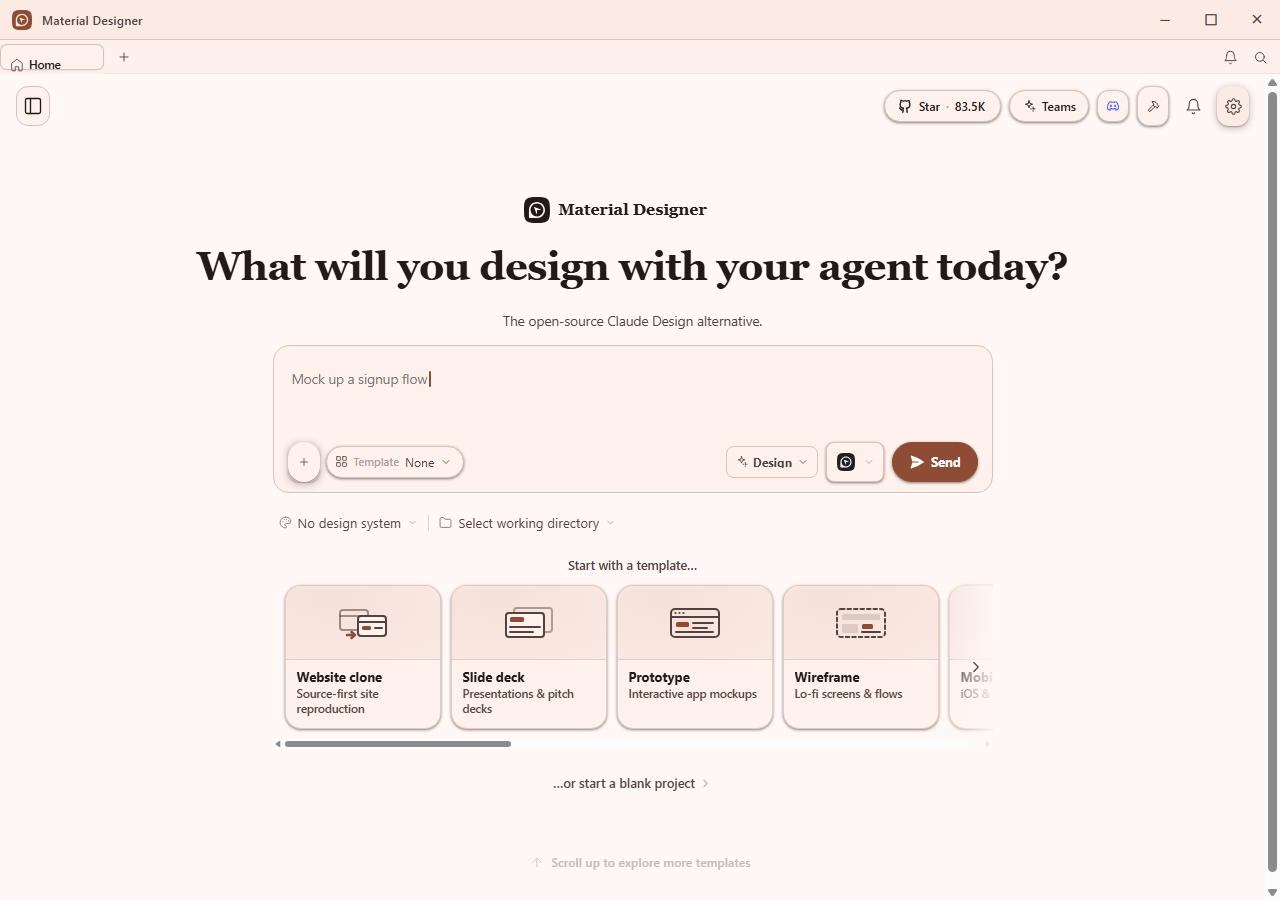
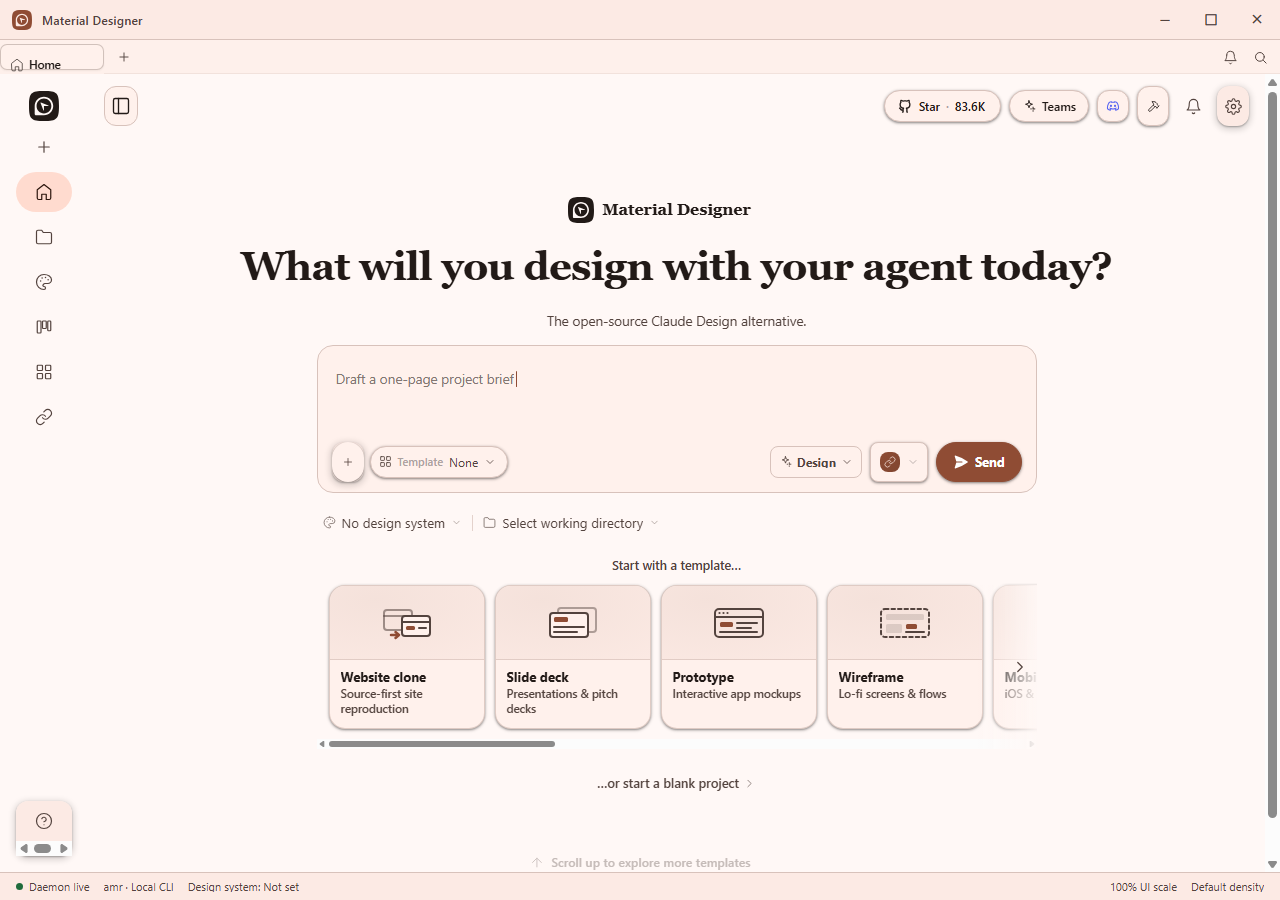
docs: publish the capture that answers the question, and the one that fails
The README's screenshot is now from 90e52d3, and the difference is the point:
there is a navigation rail down the left with the active-destination pill on
Home, and a 28px status bar along the bottom reading daemon state, model,
design system, scale and density. Neither was on the previous image, because
until that commit the rail rendered into a zero-width track.

A second capture is published beside it, deliberately, because it is showing a
defect: bilingual mode at a 900px window clips the status bar's density
readout off the right edge and truncates the Design control to an ellipsis.
Bilingual produces the longest strings in the product, so it is where clipping
appears first — that is why the new capture set covers it, and this is the
first thing it caught, on its first run. Publishing the failing image rather
than quietly retaking it is the whole reason the set is worth having.

The warning above the images is rewritten rather than removed. Two of the
mockup's three pieces of structural furniture are now on screen; the header
search bar is not, and neither is the home screen's own content, which is
still upstream's layout wearing Material Design 3 colours. That is Wave 2 and
unstarted, and saying so is cheaper than being corrected again.

廣東話:新張截圖終於見到左邊條 rail 同底部條狀態列 —— 之前嗰張冇,因為條 rail
render 咗落一個 0 闊嘅格入面。旁邊仲貼多張「衰嘢相」:雙語 + 900px 窄窗,右下
角個密度讀數俾切走咗一橛。呢個正正係新影相機制第一次跑就捉到嘅嘢 —— 影到衰嘢
就照登,唔係偷偷再影過,否則影嚟做乜。

diff --git a/README.md b/README.md
@@ -13,9 +13,20 @@ A local-first design workspace, rebuilt on Material Design 3.
 ![Material Designer running on Windows — the Material Design 3 home screen, showing the custom title bar, the prompt surface and the template rail](assets/screenshots/home-windows.png)
 
 <sub>Not a mockup. This is the packaged application, captured by the smoke test that
-installs the built installer, launches it and uninstalls it — from the run that
-published <code>v0.16.1-r38.1</code>, built from commit <code>4526b6d</code>. The
-capture path is the project's own, and the image is committed unedited.</sub>
+installs the built installer, launches it and uninstalls it — built from commit
+<code>90e52d3</code>. The capture path is the project's own and the image is committed
+unedited. The navigation rail on the left and the 28px status bar along the bottom are
+new: until <code>90e52d3</code> the rail was rendered into a zero-width track, so a
+fresh install showed no rail at all.</sub>
+
+![The same screen in bilingual mode at a 900px window — Chinese and English paired on every label, with the status bar's density readout running off the right edge](assets/screenshots/home-bilingual-narrow.png)
+
+<sub>The same build in bilingual mode at the narrowest supported window, and the reason
+that capture exists: <b>it is showing a real defect.</b> The status bar's density segment
+runs off the right edge and the Design control truncates to an ellipsis. Bilingual mode
+produces the longest strings in the product, so it is where clipping appears first —
+which is exactly why the capture set covers it, and why this image is published rather
+than quietly retaken.</sub>
 
 > [!NOTE]
 > **The application ships, and what it ships is now most of the way through the
@@ -128,18 +139,17 @@ inherited from upstream's documentation unless they say otherwise. The Material 
 redesign is **in progress, and the screenshot above is the honest measure of how far**.
 
 > [!WARNING]
-> **Look at that capture against [the mockup](mockups/) before believing any claim about
-> the redesign.** The colour layer has landed — every token resolves to a Material
-> Design 3 role — but the *anatomy* has not. The mockup specifies a persistent left
-> navigation rail, a header search bar with its regex affordance, and a 28px status bar
-> carrying daemon state, model, design system, scale and density. **None of the three is
-> on that screen.** The rail component exists and is collapsed to a zero-width track by
-> default, so a fresh install shows no rail at all.
+> **Compare those captures to [the mockup](mockups/) before believing any claim about
+> the redesign.** Two of the three pieces of structural furniture the mockup specifies
+> are now on screen — the persistent navigation rail and the status bar — and the third,
+> a header search bar with its regex affordance, is not. Neither is the home screen's
+> own content: the prompt surface and template rail are still upstream's layout wearing
+> Material Design 3 colours, which is roadmap Wave 2 and unstarted.
 >
-> A reader comparing the two would conclude the screen is still upstream's with new
-> colours, and for the parts that matter they would be right. Documents in this
-> repository have said "the anatomy pass landed"; that was true of the code and false of
-> the screen, which is the distinction this project keeps having to relearn.
+> This warning exists because a reader looked at an earlier capture, compared it to the
+> mockup, and said the application still looked like the one it was forked from — while
+> documents here said "the anatomy pass landed". That was true of the code and false of
+> the screen. **Judge this by the images above, not by the sentence next to them.**
 
 Two distinctions that keep proving load-bearing, both learned the same way:
 

diff --git a/ROADMAP.md b/ROADMAP.md
@@ -571,18 +571,21 @@ meeting it.
       *installed identity* rather than as text in files, which is what this item
       was waiting for. The one part still unproved is the window title itself — no
       title has been read off a window, because nothing inspects the window.
-- [ ] **The navigation rail is mounted and invisible.** `EntryShell` renders
-      `EntryNavRail`, and `entry-layout.css` collapses its grid track to **`0`**
-      — so "collapsed" means the rail is gone, not narrow — while
-      `readStoredRailOpen()` defaults to `false`. A fresh install therefore
-      shows **no rail at all**, which is what the published capture shows.
-      Wave 1 below specifies 88px collapsed to 260px expanded; both current
-      states (0 and 56px) are wrong. **A Material Design 3 navigation rail is
-      persistent by definition** — this single default is the largest reason
-      the running screen does not read as M3.
-      *This is a second species of the "mounted by nothing" defect: mounted,
-      and still invisible. A diff cannot catch either one; a capture catches
-      both.*
+- [x] **The navigation rail was mounted and invisible.** *Closed at `90e52d3`,
+      and confirmed by a capture.* `entry-layout.css` collapsed its grid track
+      to `0` with `inert` and `aria-hidden` applied, and the stored preference
+      defaulted to closed — so "collapsed" meant *gone* and a fresh install
+      showed no rail at all. It is 88px as an icon rail and 260px with labels
+      now, the widths Wave 1 specified. **A second species of the "mounted by
+      nothing" defect: mounted, and still invisible.** A diff catches neither;
+      a capture catches both.
+- [ ] **Bilingual mode clips at 900px, and the capture set found it.** The
+      status bar's density segment runs off the right edge
+      (`Default · 預設 density · Default · 預…`) and the Design control
+      truncates to an ellipsis. Bilingual produces the longest strings in the
+      product, which is why the capture set covers it — this is the first
+      defect it caught, on its first run, and the image is published in the
+      README rather than quietly retaken.
 - [ ] **Add the tab strip and status bar beneath the title bar** as the mockup
       specifies — a 42px strip of 36px bottom-rounded tabs with a 250px cap and
       leading/close icons, and a 28px status bar carrying live daemon state,
